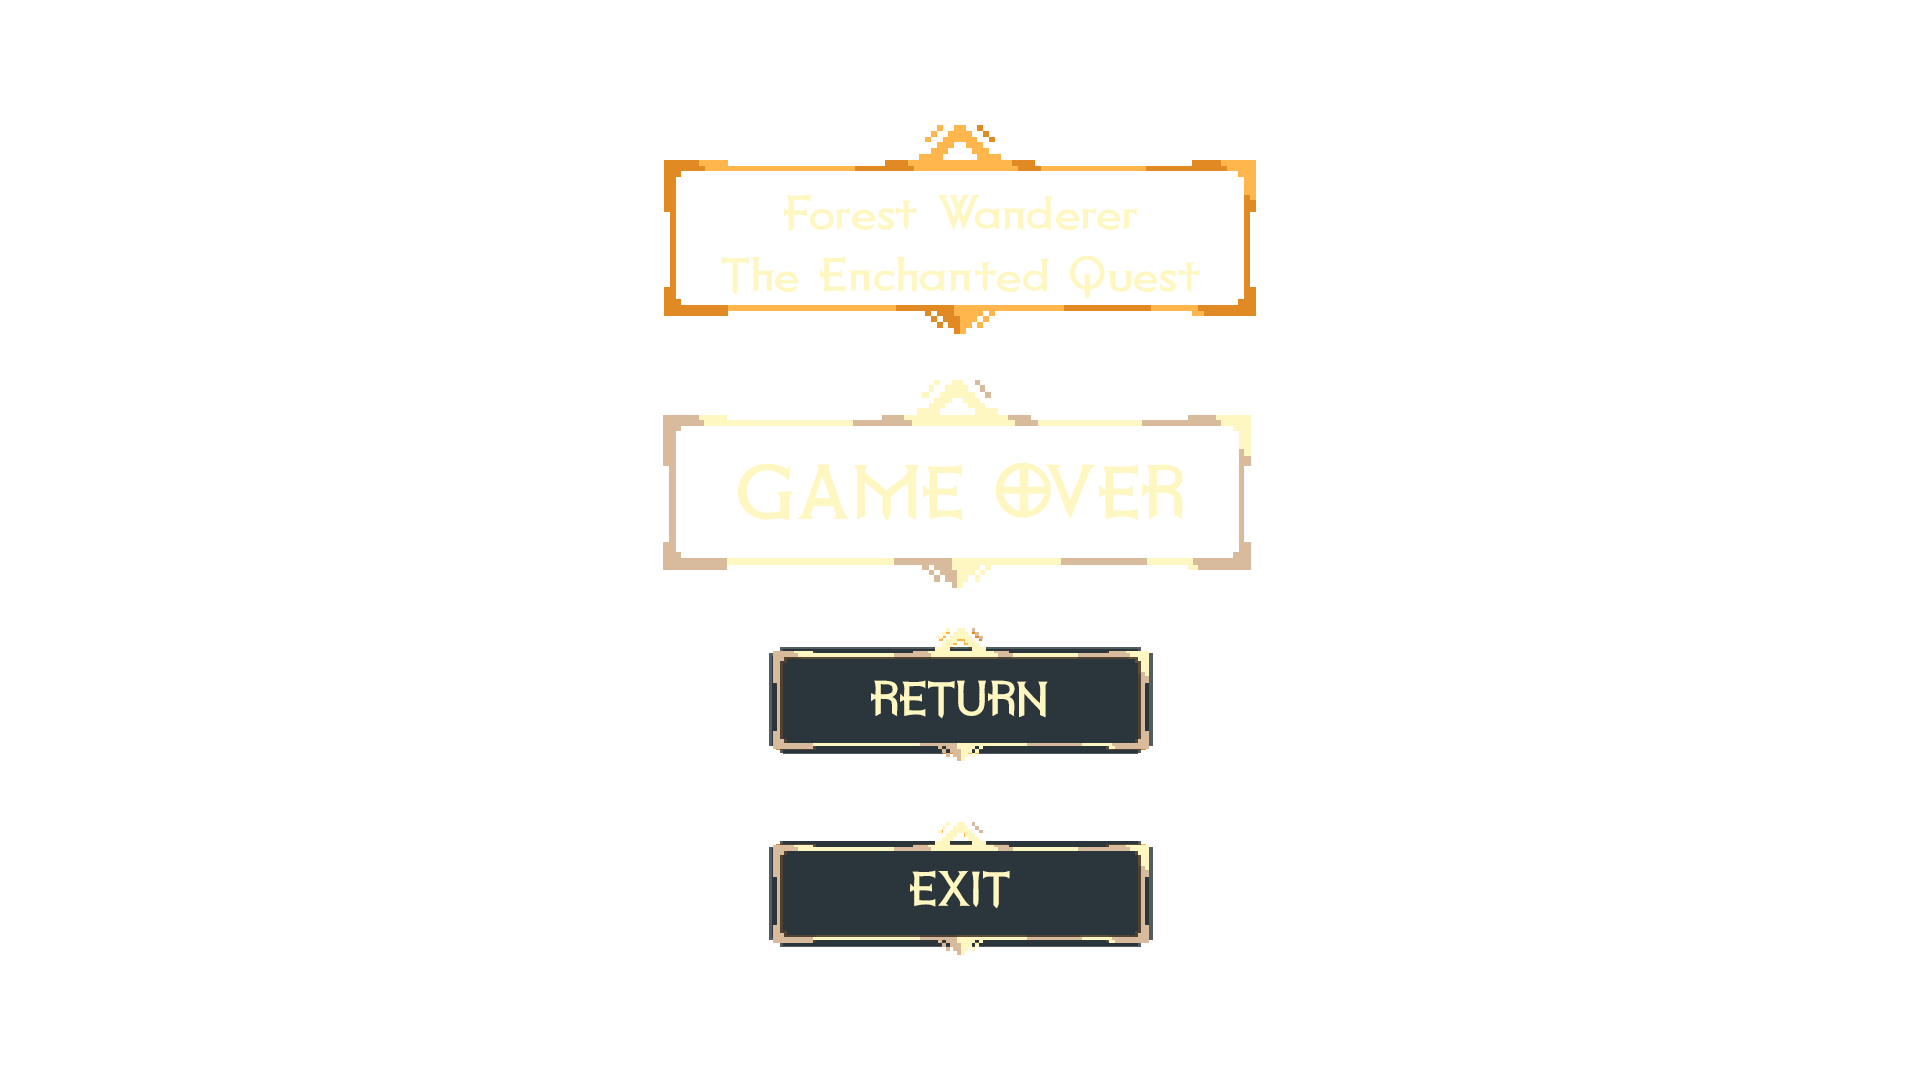
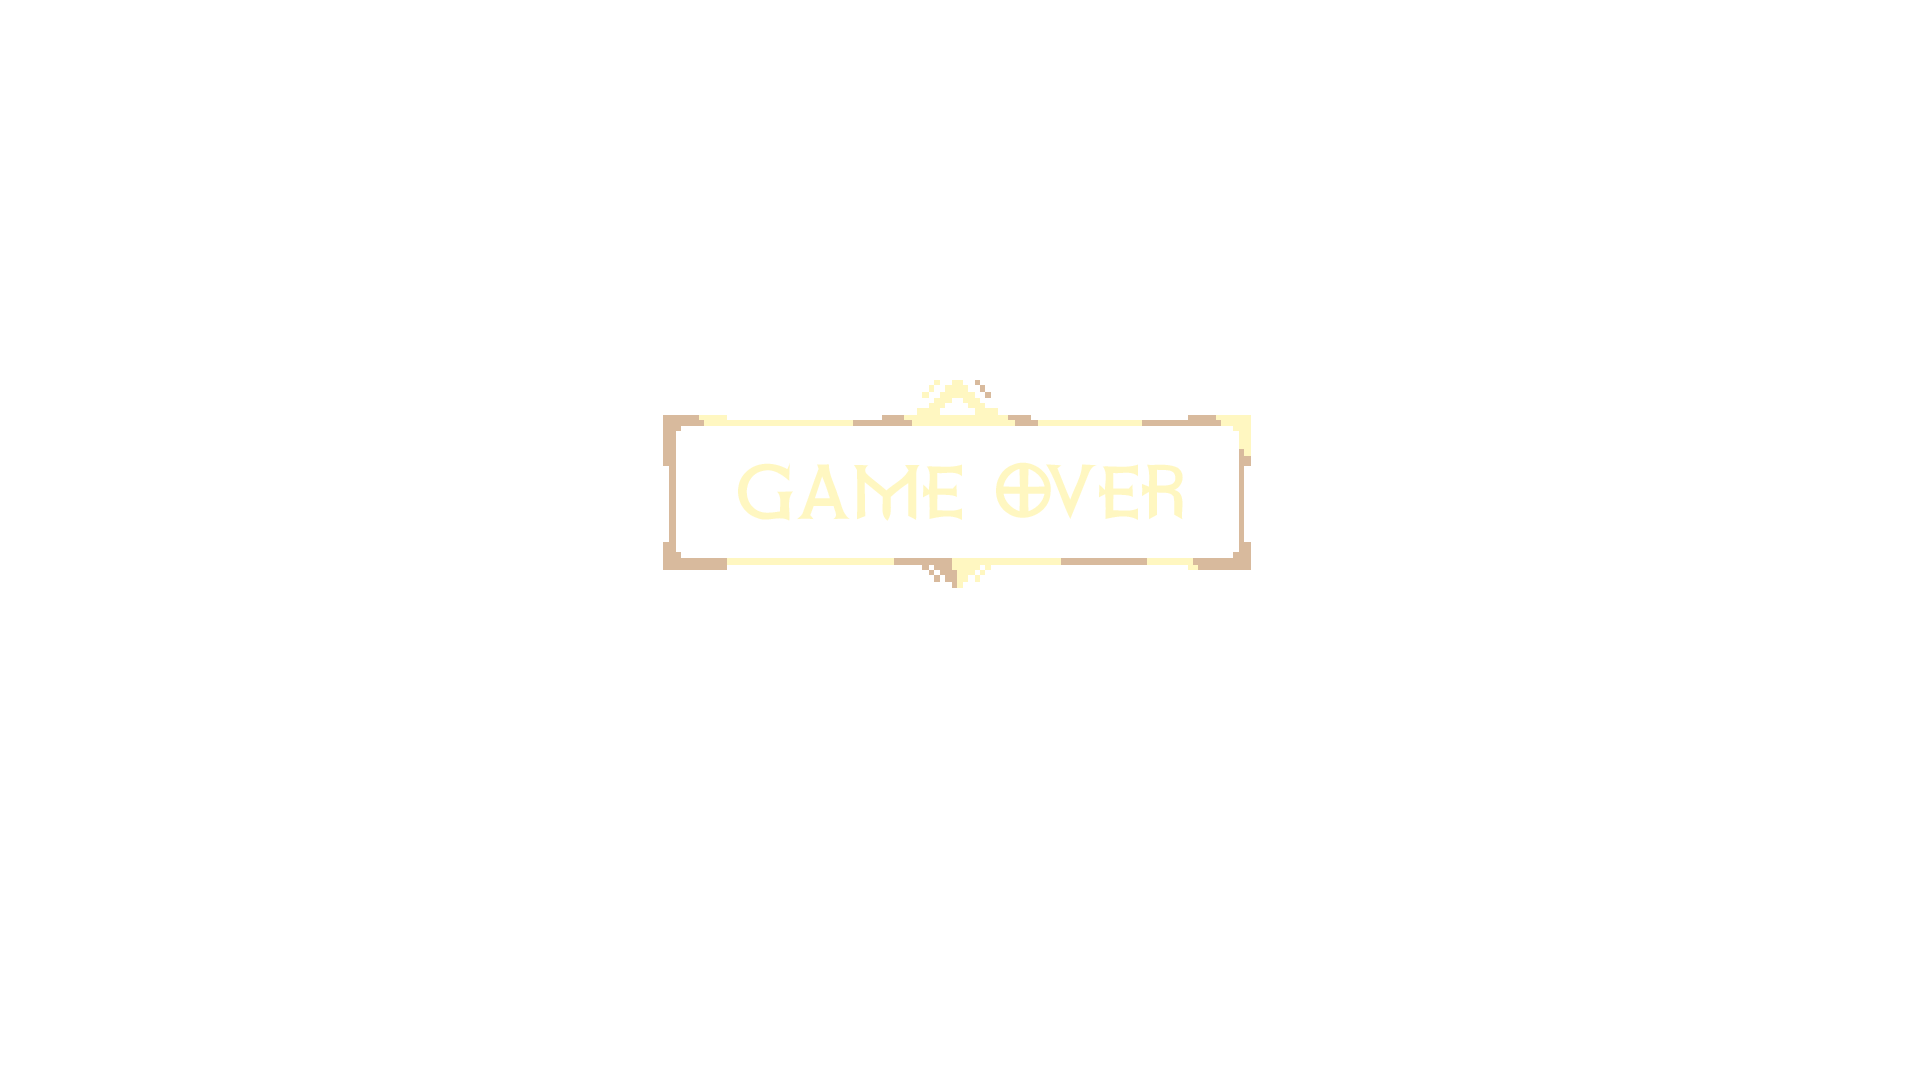
JJL

diff --git a/Game/Source/EntityManager.cpp b/Game/Source/EntityManager.cpp
@@ -50,7 +50,7 @@ bool EntityManager::Awake(pugi::xml_node& config)
 
 bool EntityManager::Start() {
 
-	bool ret = true; 
+	bool ret = true;
 
 	//Iterates over the entities and calls Start
 	ListItem<Entity*>* item;
@@ -76,7 +76,7 @@ bool EntityManager::CleanUp()
 
 	while (item != NULL && ret == true)
 	{
-		
+
 		ret = item->data->CleanUp();
 		item = item->prev;
 	}
@@ -88,15 +88,15 @@ bool EntityManager::CleanUp()
 
 Entity* EntityManager::CreateEntity(EntityType type)
 {
-	Entity* entity = nullptr; 
+	Entity* entity = nullptr;
 
 	switch (type)
 	{
 	case EntityType::PLAYER:
-		entity = new Player(); 
+		entity = new Player();
 		break;
 	case EntityType::ENEMY_GOBLIN:
-		entity = new Enemy_Goblin(); 
+		entity = new Enemy_Goblin();
 		enemys.Add(entity);
 		break;
 	case EntityType::ENEMY_FLYEYE:
@@ -161,23 +161,23 @@ void EntityManager::DestroyAllEntities()
 
 void EntityManager::AddEntity(Entity* entity)
 {
-	if ( entity != nullptr) entities.Add(entity);
+	if (entity != nullptr) entities.Add(entity);
 }
 
 void EntityManager::DestroyAllEnemis()
 {
 	ListItem<Entity*>* item;
-	for (item = enemys.start; item != NULL; item = item->next) 
+	for (item = enemys.start; item != NULL; item = item->next)
 	{
 		ListItem<iPoint>* destroyEnemy;
-		for (destroyEnemy = enemys_destroy.start; destroyEnemy != NULL; destroyEnemy = destroyEnemy->next) 
+		for (destroyEnemy = enemys_destroy.start; destroyEnemy != NULL; destroyEnemy = destroyEnemy->next)
 		{
 			if (app->map->WorldToMap(destroyEnemy->data.x, destroyEnemy->data.y) == app->map->WorldToMap(item->data->originalposition.x, item->data->originalposition.y))
 			{
 				item->data->active = false;
 			}
 		}
-		
+
 	}
 
 }
@@ -188,13 +188,7 @@ bool EntityManager::Update(float dt)
 	ListItem<Entity*>* item;
 	Entity* pEntity = NULL;
 
-	/*for (item = entities.start; item != NULL && ret == true; item = item->next)
-	{
-		pEntity = item->data;
 
-		if (pEntity->active == false) continue;
-		ret = item->data->Update(dt);
-	}*/
 
 	if (this->active) {
 		for (item = entities.start; item != NULL && ret == true; item = item->next)
@@ -203,11 +197,14 @@ bool EntityManager::Update(float dt)
 
 			if (pEntity->active == false) {
 
-
-				item->data->Update(dt);
+				if (!app->pausa) {
+					item->data->Update(dt);
+				}
 				continue;
 			};
-			ret = item->data->Update(dt);
+			if (!app->pausa) {
+				ret = item->data->Update(dt);
+			}
 		}
 	}
 	return ret;

diff --git a/Game/Source/Scene.cpp b/Game/Source/Scene.cpp
@@ -262,8 +262,9 @@ bool Scene::PostUpdate()
 {
 	bool ret = true;
 
-	if (app->input->GetKey(SDL_SCANCODE_ESCAPE) == KEY_DOWN)
-		ret = false;
+	if (app->input->GetKey(SDL_SCANCODE_ESCAPE) == KEY_DOWN) {
+		app->pausa = !app->pausa;
+	}
 
 	return ret;
 }
@@ -342,7 +343,12 @@ bool Scene::LoadState(pugi::xml_node node) {
 	}
 	else {
 
-		
+		if (!player->hasDie) {
+			player->dieCount = node.child("player").attribute("dieCount").as_int();
+		}
+		else {
+			player->hasDie = false;
+		}
 		player->position.x = node.child("player").attribute("x").as_int();
 		player->position.y = node.child("player").attribute("y").as_int();
 		//player->dieCount = node.child("player").attribute("dieCount").as_int();
@@ -403,10 +409,10 @@ bool Scene::SaveState(pugi::xml_node node) {
 		playerNode.append_attribute("y").set_value(player->position.y);
 		playerNode.append_attribute("life").set_value(playerlife->life);
 		playerNode.append_attribute("Diamond").set_value(item->playerGetDiamante);
-	
+		playerNode.append_attribute("dieCount").set_value(player->dieCount);
 		printf("%d", player->hasDie);
 		if (!player->hasDie) {
-			playerNode.append_attribute("dieCount").set_value(player->dieCount);
+			
 		}
 		else {
 			player->hasDie = false;

diff --git a/Game/Source/SceneMenu.cpp b/Game/Source/SceneMenu.cpp
@@ -47,7 +47,7 @@ bool SceneMenu::Awake(pugi::xml_node& config)
 	barra_Path = config.child("menu").child("barra").attribute("texturePath").as_string();
 	box_Path = config.child("menu").child("box").attribute("texturePath").as_string();
 	victoria_Path = config.child("menu").child("victoria").attribute("texturePath").as_string();
-
+	gameOver_Path = config.child("menu").child("gameOver").attribute("texturePath").as_string();
 
 	
 	return ret;
@@ -67,6 +67,7 @@ bool SceneMenu::Start()
 	barra_texture = app->tex->Load(barra_Path);
 	box_texture = app->tex->Load(box_Path);
 	victoria_texture = app->tex->Load(victoria_Path);
+	gameOver_texture = app->tex->Load(gameOver_Path);
 
 	if (!app->scene->GetItem()->victoria) {
 		menu();
@@ -104,7 +105,7 @@ bool SceneMenu::Update(float dt)
 		}
 	}else if (app->scene->GetPlayer()->lose) {
 
-		app->render->DrawTexture(victoria_texture, -160, -60, 0.7, SDL_FLIP_NONE, &rect1, 0, 0);
+		app->render->DrawTexture(gameOver_texture, -160, -60, 0.7, SDL_FLIP_NONE, &rect1, 0, 0);
 
 		if (showButton) {
 			victoria();

diff --git a/Game/Source/GuiManager.cpp b/Game/Source/GuiManager.cpp
@@ -32,7 +32,7 @@ GuiControl* GuiManager::CreateGuiControl(GuiControlType type, int id, const char
 
 	//Set the observer
 	guiControl->observer = observer;
-	
+
 	// Created GuiControls are add it to the list of controls
 	guiControlsList.Add(guiControl);
 
@@ -40,14 +40,15 @@ GuiControl* GuiManager::CreateGuiControl(GuiControlType type, int id, const char
 }
 
 bool GuiManager::Update(float dt)
-{	
+{
 
 	ListItem<GuiControl*>* control = guiControlsList.start;
-
+	printf("guimanager");
 	while (control != nullptr)
 	{
 		control->data->Update(dt);
 		control = control->next;
+
 	}
 
 	return true;
@@ -61,10 +62,11 @@ bool GuiManager::CleanUp()
 	{
 		RELEASE(control);
 	}
+	//guiControlsList.Clear();
+
 
 	return true;
 
-	return false;
 }
 
 void GuiManager::DestroyGuiControl(GuiControl* toDestroy) {

diff --git a/Game/Source/Player.cpp b/Game/Source/Player.cpp
@@ -70,7 +70,6 @@ bool Player::Start() {
 bool Player::Update(float dt)
 {
 
-
 	//printf("%d \n", position.x);
 	currentAnimation = &idle;
 	if (pbody != nullptr) {
@@ -236,6 +235,9 @@ bool Player::Update(float dt)
 
 	if (app->input->GetKey(SDL_SCANCODE_5) == KEY_DOWN) {
 		app->scenemenu->showButton = true;
+		
+		app->scenemenu->Enable();
+		app->guiManager->Enable();
 		app->fade->FadeToBlack(app->scene, app->scenemenu, 20.0f);
 	}
 
@@ -297,15 +299,12 @@ bool Player::Update(float dt)
 
 	}
 
-
-
 	if (app->input->GetKey(SDL_SCANCODE_R) == KEY_DOWN) {
 		isDead = !isDead;
 
 		die.Reset();
 	}
 
-	
 	//app->render->DrawTexture(texture, position.x, position.y);
 	SDL_Rect rect = currentAnimation->GetCurrentFrame();
 

diff --git a/Game/Source/Menu.cpp b/Game/Source/Menu.cpp
@@ -26,7 +26,7 @@ Menu::~Menu()
 // Called before render is available
 bool Menu::Awake(pugi::xml_node& config)
 {
-	title_Path = config.child("title").attribute("texturePath").as_string();
+	//title_Path = config.child("title").attribute("texturePath").as_string();
 
 
 	return true;
@@ -34,7 +34,7 @@ bool Menu::Awake(pugi::xml_node& config)
 
 bool Menu::Start()
 {
-	title_texture = app->tex->Load(title_Path);
+	//title_texture = app->tex->Load(title_Path);
 	return true;
 }
 

diff --git a/Game/Source/Physics.cpp b/Game/Source/Physics.cpp
@@ -48,9 +48,13 @@ bool Physics::PreUpdate()
 {
 	bool ret = true;
 
+
+	if (!app->pausa) {
+		world->Step(1.0f / 60.0f, 6, 2);
+	}
 	// Step (update) the World
 	// WARNING: WE ARE STEPPING BY CONSTANT 1/60 SECONDS!
-	world->Step(1.0f / 60.0f, 6, 2);
+	
 
 	// Because Box2D does not automatically broadcast collisions/contacts with sensors, 
 	// we have to manually search for collisions and "call" the equivalent to the ModulePhysics::BeginContact() ourselves...

diff --git a/Game/Source/SceneMenu.h b/Game/Source/SceneMenu.h
@@ -90,6 +90,8 @@ public:
 	SDL_Texture* victoria_texture;
 	const char* victoria_Path;
 
+	SDL_Texture* gameOver_texture;
+	const char* gameOver_Path;
 
 	int settingPosX;
 

diff --git a/Game/Source/App.h b/Game/Source/App.h
@@ -128,6 +128,9 @@ public:
 	const char* TimeBorde;
 	bool closeGame = true;
 
+	bool pausa = false;
+
+
 private:
 
 	int argc;

diff --git a/Game/Source/EntityManager.h b/Game/Source/EntityManager.h
@@ -42,7 +42,7 @@ public:
 	List<Entity*> enemys;
 	List<iPoint> enemys_destroy;
 
-	bool pausa = false;
+
 	
 };
 
